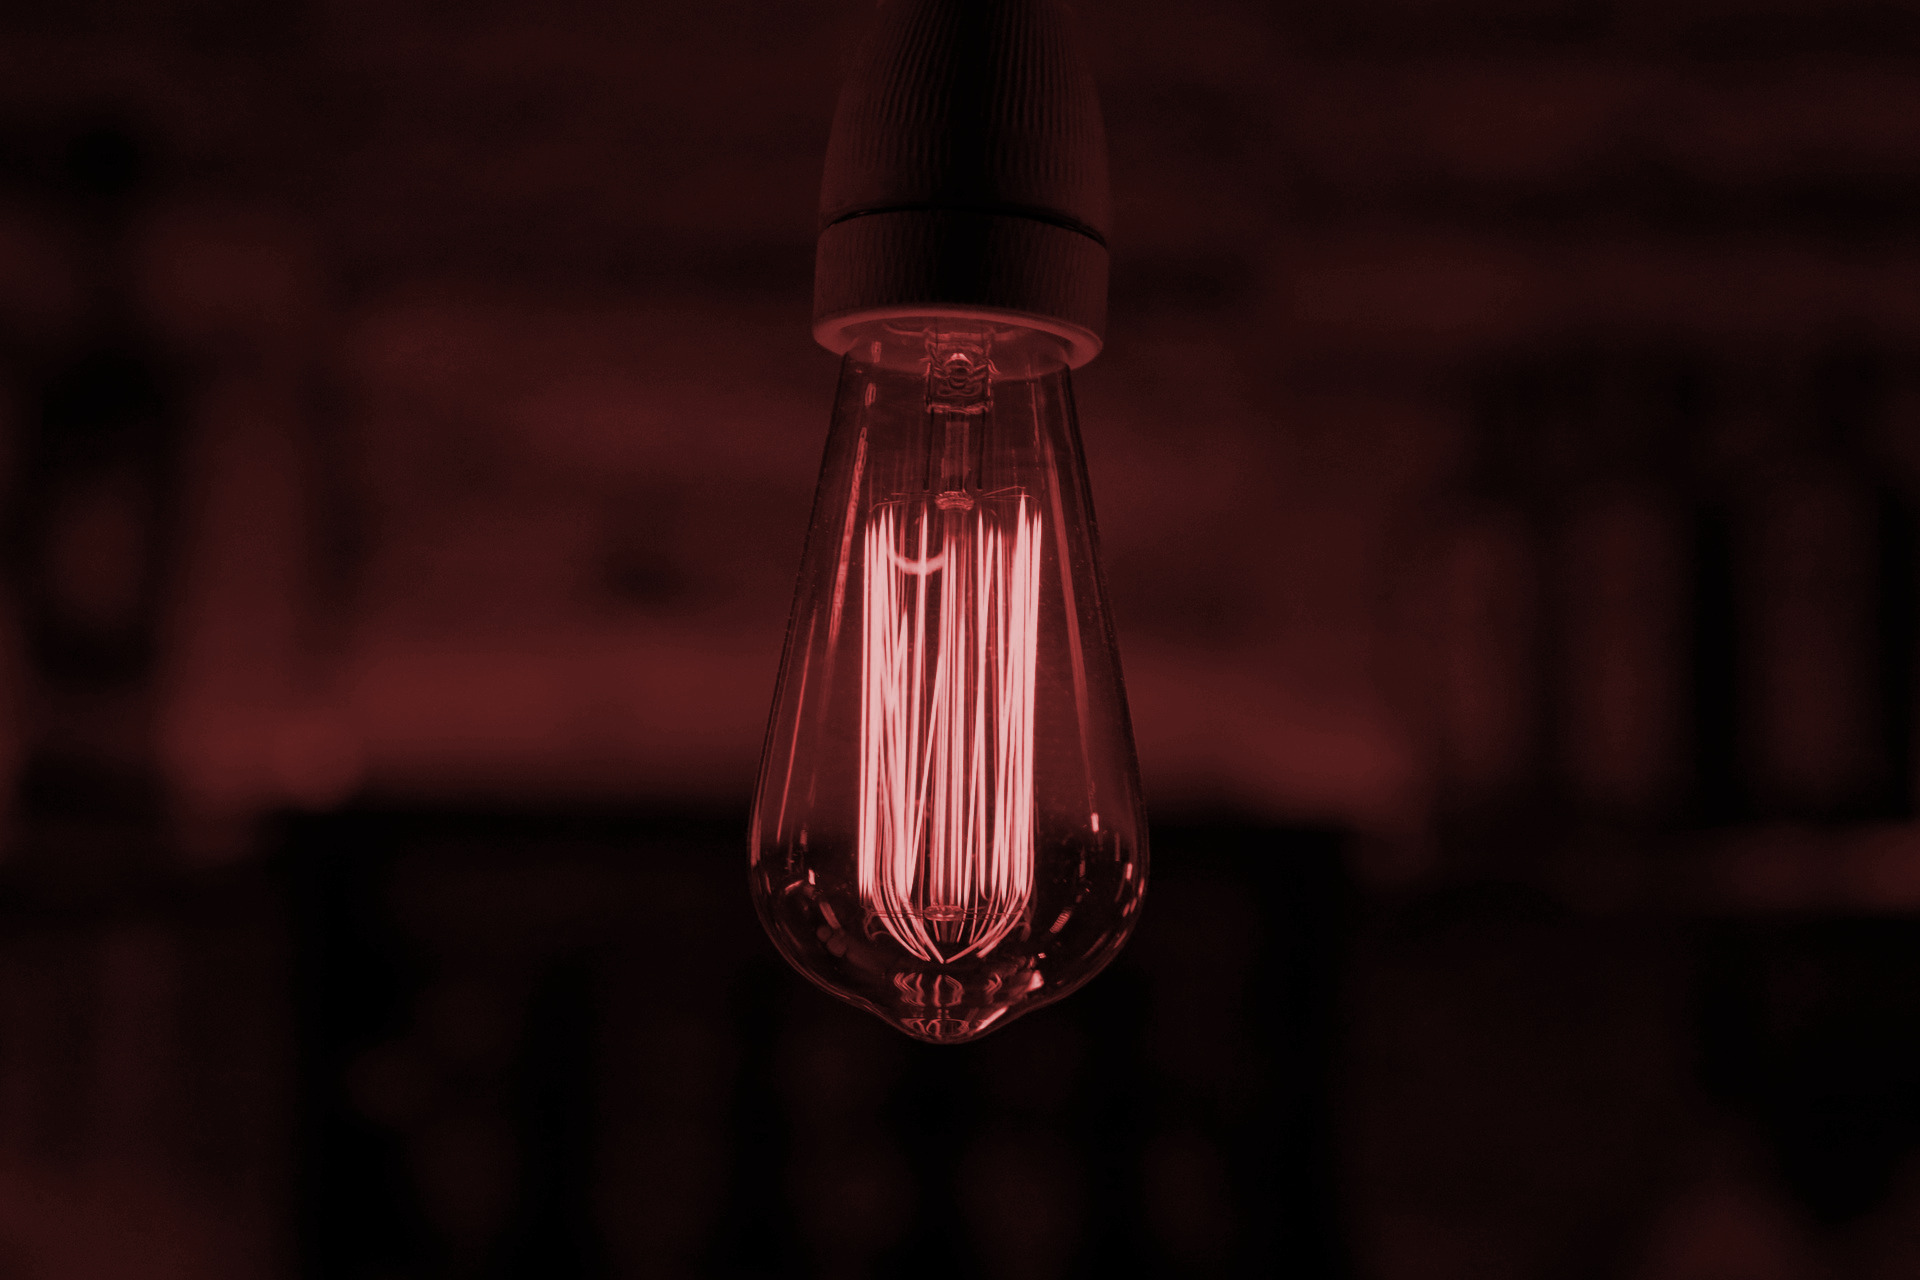
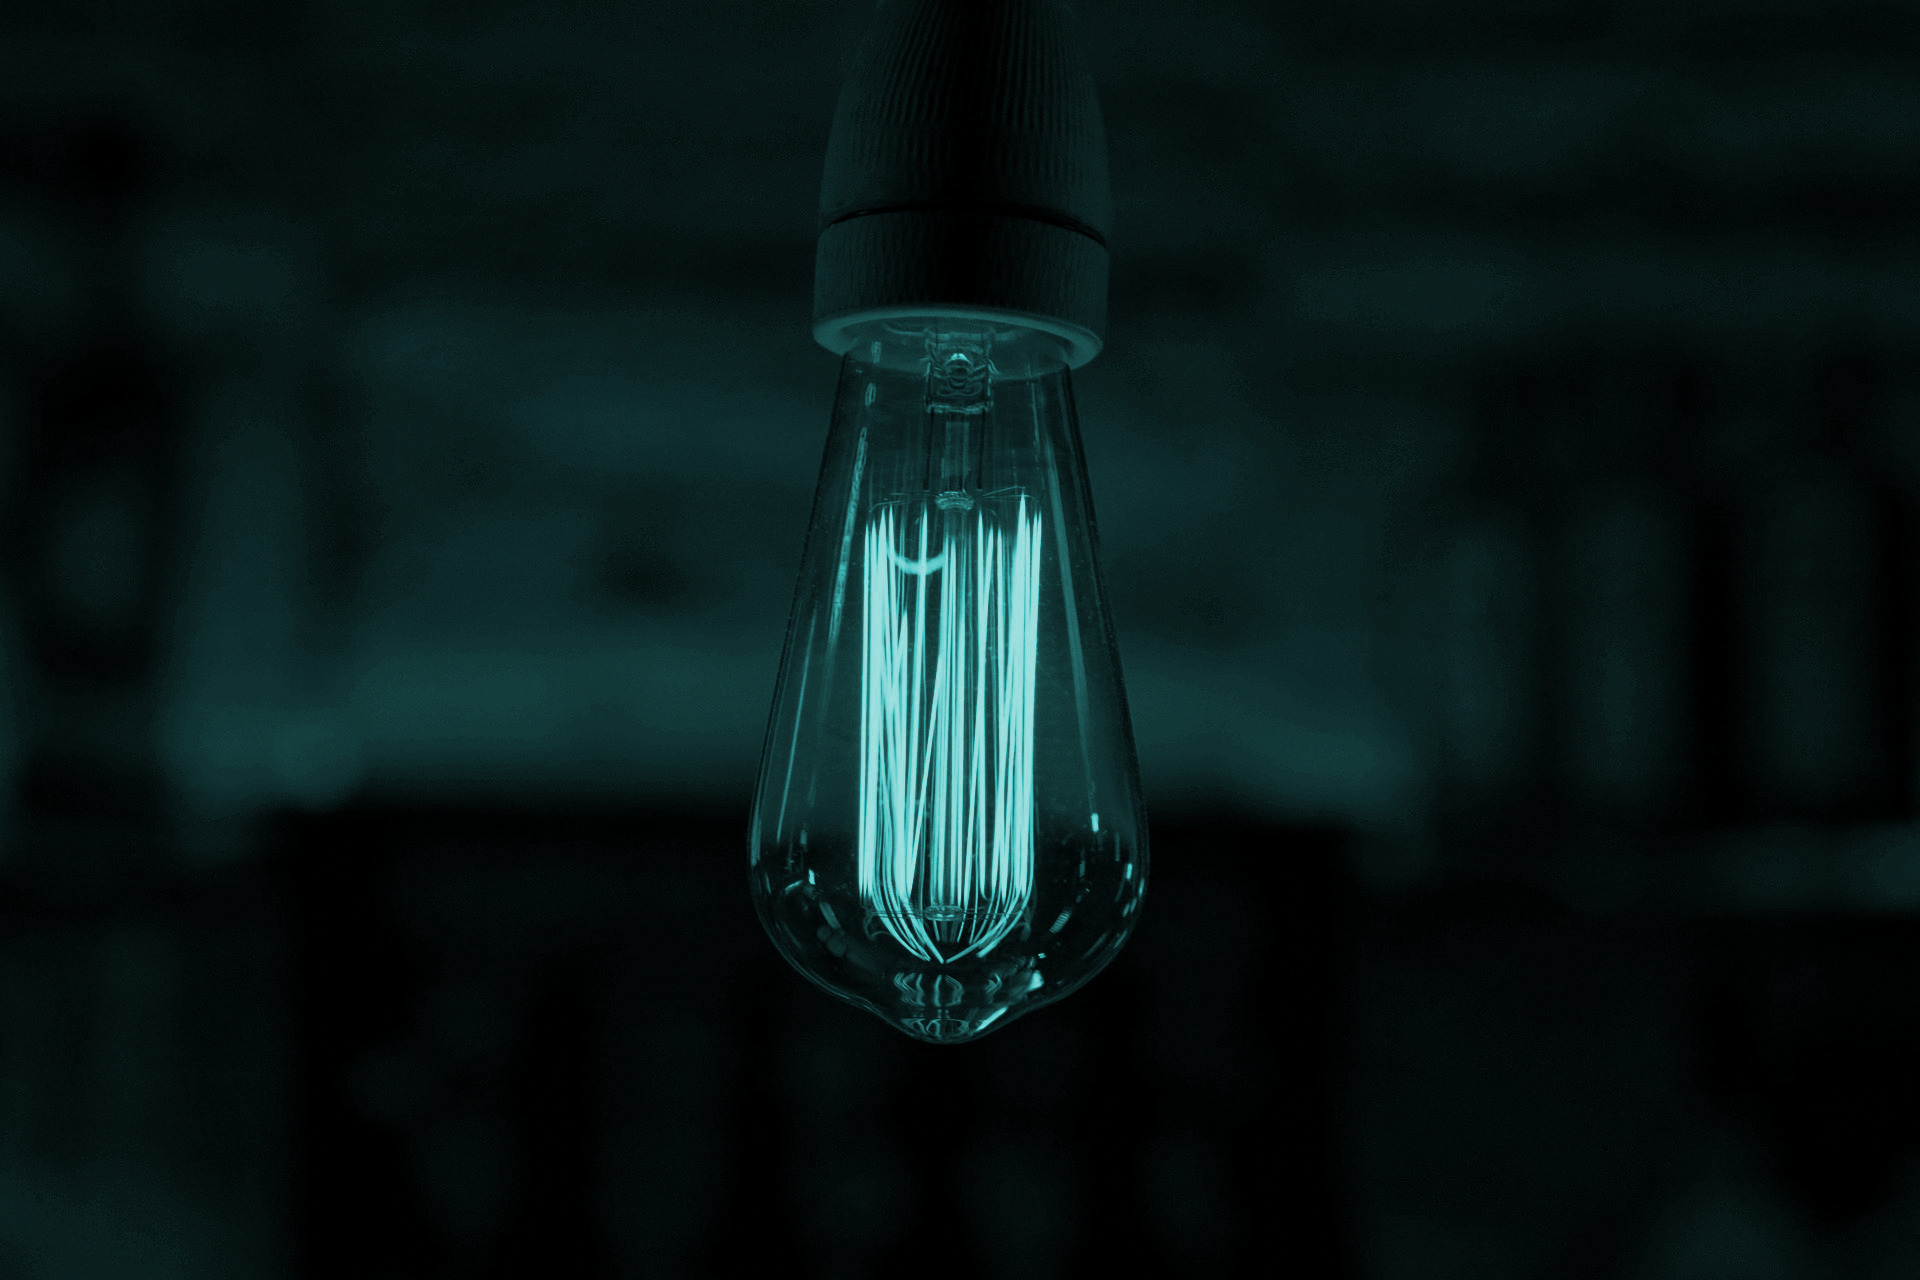
Add background img to menu panel.

diff --git a/public/assets/stylesheets/application/components/_body.scss b/public/assets/stylesheets/application/components/_body.scss
@@ -158,6 +158,16 @@ main {
 	}
 }
 
+.layer {
+  z-index:0;
+  background: url('/dist/img/cover-copy-brandy.jpg') no-repeat center left;
+  position: absolute;
+  top: 0;
+  left: 0;
+  width: 100%;
+  height: 100%;
+}
+
 .cd-nav {
 	position: fixed;
 	z-index: 1;
@@ -165,7 +175,7 @@ main {
 	left: 0;
 	height: 100%;
 	width: 100%;
-	background-color: $skyblue;
+  background-color: rgba($skyblue, 0.8);
 	visibility: hidden;
 	transition: visibility 0s $animation-duration;
 
@@ -190,7 +200,7 @@ main {
         @include for-screen(only-xs) {
           margin: 20px 5%;
         }
-        color: rgba($bluemarine, .1);
+        color: rgba($white, .2);
       }
       &:hover {
         color: $bluemarine;

diff --git a/server/views/_navbar.html b/server/views/_navbar.html
@@ -1,4 +1,5 @@
 <div class="container">
+
   <a href="/#home" class="cd-nav-trigger">
 	  <span class="cd-nav-icon"></span>
     <svg x="0px" y="0px" width="54px" height="54px" viewBox="0 0 58 58">
@@ -6,8 +7,10 @@
 		</svg>
   </a>
   <div class="row">
+    <div class="layer"></div>
     <div id="cd-nav" class="cd-nav">
-		  <div class="cd-navigation-wrapper">
+      <div class="cd-navigation-wrapper">
+
 			  <div class="cd-half-block">
 		      <a href="#my-brand"><h1>Copy Brandy</h1></a>
 				  <nav>
